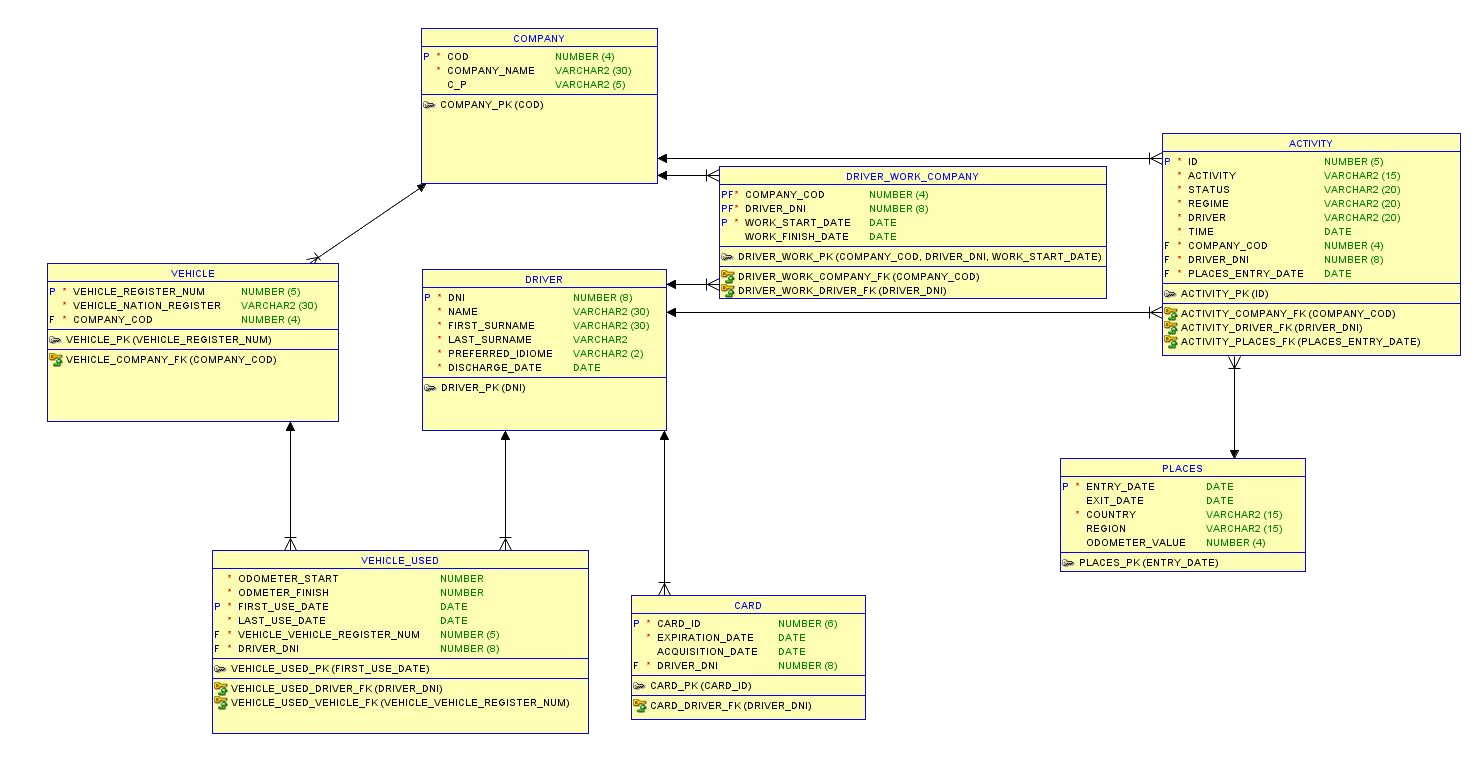
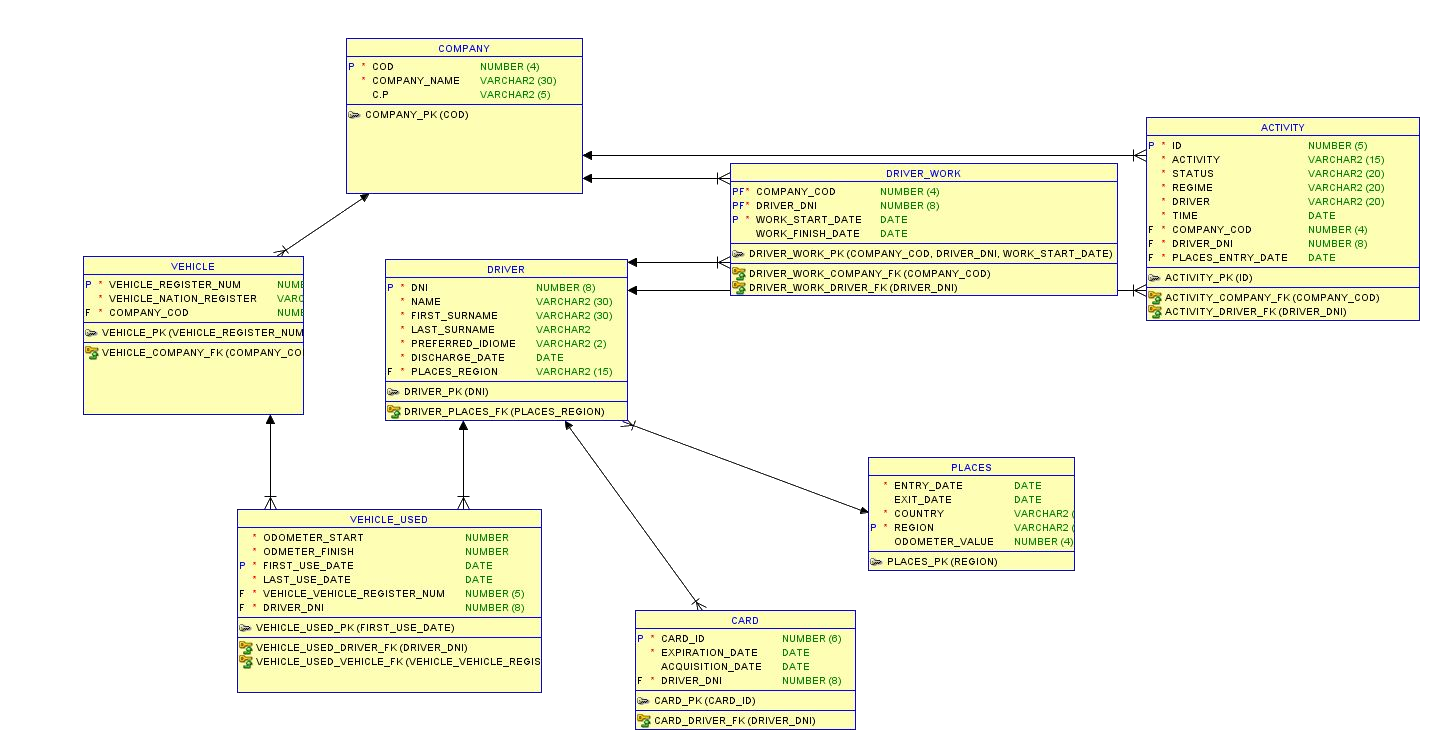
updated an image and md and added new md and folders

Changed region(s): [[0.0308, 0.0311, 1.0, 0.5913], [0.1231, 0.6847, 0.6154, 0.9959], [0.5846, 0.5913, 0.8923, 0.7781]]

diff --git a/src/statements/problema.md b/src/statements/problema.md
@@ -1,0 +1,31 @@
+# [Volver a la presentación](https://gitpitch.com/Chirili/Proyecto_PreFeria#/2/1)
+
+## Descripción del problema
+
+Se necesita almacenar en la base de datos, los datos relacionados con un tacógrafo digital:
+
+   - Se almacenará los datos de la compañia, el conductor, el vehiculo y el vehiculo usado, actividad, lugares y tarjeta.
+
+   - De la compañía se almacenará **(el codigo, nombre de la compañia y el codigo postal).**
+
+        > Hay que tener en cuenta que una compañia puede tener muchos conductores y un conductor puede trabajar con distintas compañias pero nunca con dos a la vez.
+
+   - Del conductor interesa saber su **(DNI, nombre, primer y segundo apellido, el idioma preferido y la fecha de alta en la empresa).**
+
+   - De la actividad se almacenará  **(el ID, el estado, el régimen, conducto y el tiempo).**
+        > Teniendo en cuenta que la actividad la realiza un conductor cada ID de actividad tiene que tener asociado un DNI de un conductor que esta realizando esa actividad asi como el codigo de compañia a la que pertenece dicho conductor en ese determinado momento
+
+    - Del vehiculo interesa saber **(el número de registro y la nación de registro de dicho vehiculo, asi como el código de la compañía a la que pertenece).**
+
+        > Un vehiculo solo puede pertener a una empresa y una empresa puede tener tantos vehiculo.
+
+    - Del vehiculo usado necesitamos **(el numero de registro del vehiculo, el dni del conductor que lo ha usado, el comienzo y fin del cuenta kilometros y el primer y último uso de dicho vehiculo).**
+
+    - De los lugares interesa saber **(La fecha de entrada y salida de dicho lugar, el país, la región, y el valor del cuenta kilometros tanto cuando entra como cuando sale).**
+
+    - La tarjeta tiene que tener **(Un ID de tarjeta, la fecha de expiración y la fecha de adquisición de la misma y por último el DNI del conductor que la está usando ).**
+        > Hay que tener en cuenta que un conductor solo debe tener una tarjeta operativa al mismo tiempo, es decir, que si tiene mas de una tarjeta es porque las demás estan caducadas.
+
+> NOTA:
+ >> En los lugares se necesita saber en que región se encuentra el conductor en dicho momento y la actividad se utiliza para saber todos lo que esta haciendo un conductor en un determinado momento. EJ: conductor X esta de descanso a las 10:00 y a las 10:05 esta conduciendo. Por lo tanto tenemos todos lo datos del conductor asi como el vehiculo que ha usado y a que compañia pertenece.
+    

diff --git a/PITCHME.md b/PITCHME.md
@@ -53,3 +53,7 @@
 @snap[east relacional_2]
 @fa[arrow-right]
 @snapend
+
+@snap[north-west snap-30]
+@quote[@gitlink[Descripción](src/statements/problema.md) del problema]
+@snapend
